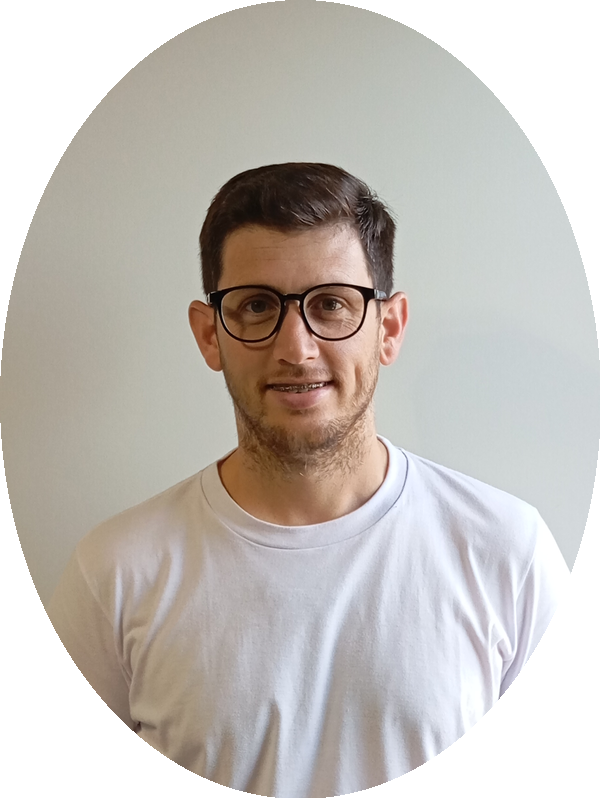
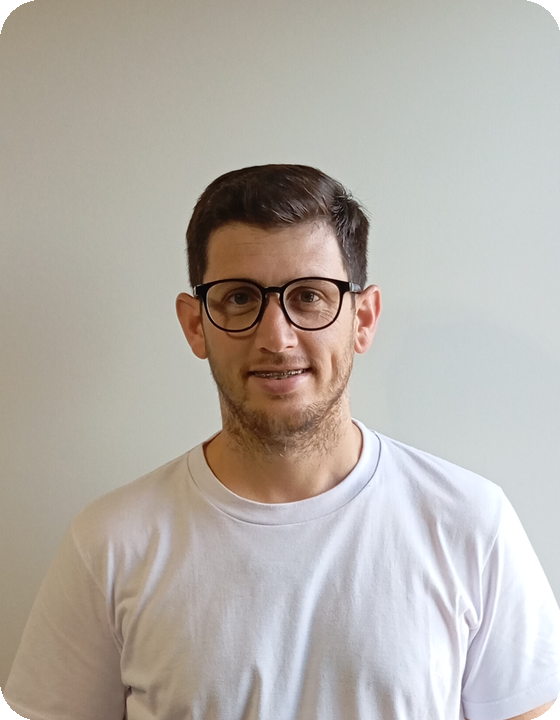
Add files via upload

diff --git a/index.html b/index.html
@@ -33,7 +33,7 @@ body{font-family:var(--font);background:var(--blanco);color:var(--azul);overflow
   backdrop-filter:blur(20px);
   padding:14px 56px;
 }
-.nav-logo{height:38px;filter:brightness(0) invert(1);}
+.nav-logo{height:42px;filter:none;background:#fff;border-radius:8px;padding:4px 8px;}
 .nav-cta{
   background:var(--verde);color:#fff;
   font-family:var(--font);font-weight:700;font-size:13px;
@@ -148,7 +148,7 @@ body{font-family:var(--font);background:var(--blanco);color:var(--azul);overflow
 /* FOTO HERO */
 .hero-right{
   position:relative;z-index:2;
-  display:flex;align-items:flex-end;justify-content:center;
+  display:flex;align-items:center;justify-content:center;
   padding:0 40px 0 0;
   height:100%;
   opacity:0;animation:fadeIn .9s .3s ease forwards;
@@ -156,44 +156,32 @@ body{font-family:var(--font);background:var(--blanco);color:var(--azul);overflow
 .foto-contenedor{
   position:relative;
   width:100%;
-  max-width:380px;
-  align-self:flex-end;
+  max-width:360px;
+  display:flex;
+  flex-direction:column;
+  align-items:center;
+  gap:16px;
 }
 .foto-img{
   width:100%;
   display:block;
-  border-radius:24px 24px 0 0;
-  filter:grayscale(20%) contrast(1.05);
+  border-radius:24px;
+  filter:grayscale(10%) contrast(1.05);
   position:relative;z-index:1;
+  box-shadow:0 24px 60px rgba(0,0,0,0.4);
 }
-.foto-badge{
-  position:absolute;
-  top:32px;left:-24px;
-  background:rgba(255,255,255,0.07);
-  backdrop-filter:blur(12px);
-  border:1px solid rgba(255,255,255,0.12);
-  border-radius:14px;
-  padding:14px 18px;
-  z-index:2;
-}
-.foto-badge-num{font-size:26px;font-weight:900;color:var(--verde);line-height:1;}
-.foto-badge-lab{font-size:10px;font-weight:700;color:rgba(255,255,255,0.6);text-transform:uppercase;letter-spacing:1.5px;margin-top:3px;}
 .foto-nombre{
-  position:absolute;
-  bottom:0;left:0;right:0;
-  background:linear-gradient(to top, rgba(15,39,72,0.98) 0%, rgba(15,39,72,0.7) 60%, transparent 100%);
-  padding:28px 20px 20px;
+  text-align:center;
+  padding:8px 0;
+  z-index:2;
 }
 .foto-badge-inline{
   display:flex;align-items:center;gap:8px;
-  margin-top:8px;
+  justify-content:center;
+  margin-top:6px;
 }
 .foto-badge-inline .foto-badge-num{font-size:18px;font-weight:900;color:var(--verde);}
 .foto-badge-inline .foto-badge-lab{font-size:11px;font-weight:600;color:rgba(255,255,255,0.6);text-transform:uppercase;letter-spacing:1px;}
-  padding:40px 24px 24px;
-  border-radius:0 0 0 0;
-  z-index:2;
-}
 .foto-nombre-texto{font-size:18px;font-weight:800;color:#fff;letter-spacing:-.3px;}
 .foto-nombre-sub{font-size:11px;font-weight:600;color:var(--verde);letter-spacing:2px;text-transform:uppercase;margin-top:4px;}
 
